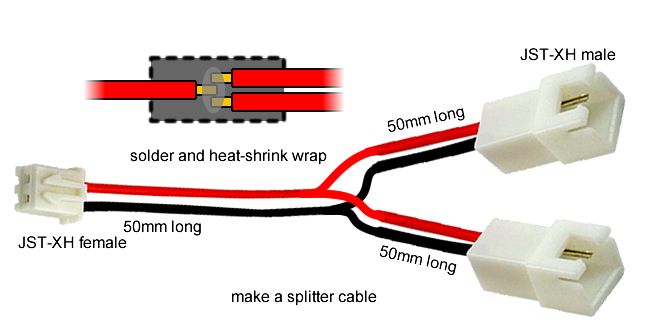
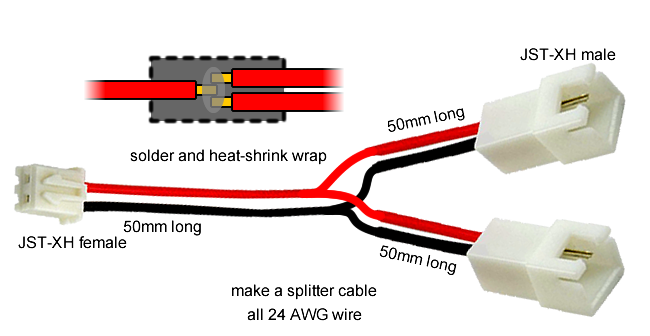
progress on assembly instructions

Changed region(s): [[0.3385, 0.8333, 0.5846, 0.9524]]

diff --git a/ordered_lessons/lesson11b.md b/ordered_lessons/lesson11b.md
@@ -1,0 +1,157 @@
+# Electronics Assembly Part 2
+
+At this point, everything should be ready to be connected together. We have made extension cables where we need to.
+
+It'll be great if you had a multimeter right now to do some tests. If everything goes right, then you won't need it. If something goes wrong, we can use it to identify bad connections or bad parts. An infrared thermometer would be helpfun, or even a thermal imaging camera.
+
+![](../images/lesson11/multimeter.png)
+
+We will do this step by step and test after each step. This will prevent any power issues from blowing up any sensitive components. Keep a fire extinguisher near by. Do not leave the area if the power is on or if something is hot. Do not touch any wires or connectors if the AC power cord is plugged in. Never use your feelings to check temperature.
+
+## Skill: Continuity Checking Wires
+
+You can easily check if a wire is broken with the multimeter's continuity check function. Also, you can also verify the wiring of a heating element before plugging it in, by measuring its resistance value at the end of the wires. Review [lesson 9](lesson9) to see what resistances you should be getting.
+
+## Skill: Swapping Wires in a JST-XH Connector
+
+When you have a JST-XH connector that has wires in the wrong order, there's a way to re-arrange that order. You need a pointy tool to pop out the crimp inside the connector housing. Once the crimp is removed, simply re-insert it into the housing at the correct position.
+
+![](../images/lesson11/howtoswapjstxhpins.png)
+
+This works on all of our JST-XH female connectors, which includes the stepper motor connectors.
+
+## 1: Power Supply
+
+Connect the AC power input to the 12VDC power supply. That means connecting the "**L**ive" (aka **H**ot), "**N**eutral", and "**G**round" wires.
+
+You also need to connect the negative output of the power supply to the ground somehow. This could be a simple 14 AWG wire. Recall what we [discussed before about grounding](lesson8).
+
+Once the connections are made, keep the area clear, plugin AC power and turn it on. There should be a small LED that lights up on the power supply.
+
+If you can, measure the DC output, it should be about 12V.
+
+Keep it running for 10 minutes. No smoke should come out, nothing should be warmer than 45 degrees C. For all the other tests, also make sure nothing smokes and nothing gets too warm.
+
+Turn the power off and unplug the AC power cord.
+
+## 2: Power Supply to Control Circuit
+
+The control circuit (SKR Mini E3) should be mounted inside its 3D printed box, secured with M3 standoffs and short M3 screws. The lid should be removed. We do not need the cooling fan yet.
+
+The LCD screen should also be mounted inside its own 3D printed box, secured with M3 standoffs and short M3 screws. Connect the LCD screen to the control circuit with the cable that came with it.
+
+Connect the power supply to the control circuit using the 14 AWG wires we prepared before.
+
+Turn the power on, LEDs will start coming on and the LCD will start to show stuff (or at least light up as well). This is good. There's a chance that nothing on the LCD actually does anything when you press it though, don't worry, we'll configure the firmware later.
+
+Plug in a USB cable between the control circuit and your computer. Install all the drivers you need (check manufacturer's website). Download and install [Pronterface](https://www.pronterface.com/), run it and see if you can connect to your control circuit.
+
+Turn the power off and unplug the AC power cord. Unplug the USB cable.
+
+NOTE: The default firmware for the SKR Mini E3 should have been written for a Creality Ender 3 printer. We are using very similar components so things should work out-of-the-box. But we do need to reconfigure things later.
+
+## 3: Sensors and Switches
+
+Input devices, like sensors, are low power, so we test them first. Plus, we depend on the temperature sensors to keep us safe when we test higher powered devices like the heaters.
+
+Connect all the sensors and switches to the control circuit. You've already made all the extension wires for them.
+
+Connect the USB cable, and power on the AC power. Connect to the control circuit from your computer using Pronterface.
+
+You should see that the temperature sensors report values, both the nozzle temperature and bed temperature. Now, use your hot air gun, heat those sensors up and watch your computer screen. Does the values start to increase? If so, then good, test passed. Do this for both the nozzle and the bed. Also when you turn off the hot air, see if the values start to decrease.
+
+The values might be reading room temperature but if they are not, then that could just mean we need to tweak the firmware.
+
+Inside the Pronterface console, type in the following command, then hit send (ENTER key)
+
+ * M119
+
+This is the [gcode command for "Endstop States"](https://marlinfw.org/docs/gcode/M119.html), and it will report when the limit switches are activated. Start pressing those switches, and while the switches are closed, issue the command again. See if the console shows the proper response.
+
+If you are seeing weird behaviour, then disconnect the wires and use tweezers to short circuit the respective connector on the circuit board. Shorting the limit switch connector will make the firmware think the switch is pressed. Shorting the temperature sensor pins should make the firmware think the temperature is very high.
+
+When you are done, turn everything off and unplug everything.
+
+## 4: Fans
+
+Connect the fans, again, we've already made the extension wires and splitter wires we need. But we need to watch out for which fan is connected to which connector. Follow the diagram.
+
+Next we need to check the polarity of the blower fan. The circuit board with have plus (+) and minus (-) symbols, plus means positive and minus means negative. Red wire should go to positive, and black wire should go to negative. If the JST-XH wires do not match the connector polarity, then we need to swap the red and black wires inside the JST-XH connector housing.
+
+Power everything up and connect via Pronterface. As soon as power is applied, the extruder cooling fan and the circuit box cooling fan should both start spinning. This is good. If they don't turn on, the wiring has a problem or the fans are broken.
+
+Issue the following command:
+
+ * M106 S255
+
+Did the blower fan turn on? If so, then we will turn it on at half speed, issue the following command:
+
+ * M106 S128
+
+Did the blower fan slow down? Now turn it off with the following command:
+
+ * M107
+
+Did the blower fan turn off?
+
+If you are troubleshooting a problem with a multimeter, check that the fan output pins on the circuit board are outputting about 12V when you tell the fan to turn on, and outputting 0V when you tell the fan to turn off.
+
+When you are done, turn everything off and unplug everything.
+
+## 5: Stepper Motors
+
+With everything powered off, AC power unplugged, use your hands to move the print head to the middle of the bed, and move the bed vertically to the middle height of the printer. In this position, it is safe to spin the stepper motors slightly just to check if they work.
+
+With the positions set, now plug in the stepper motors into the control circuit. Double check the colours of the wires. **Do not ever connect or disconnect stepper motors while the machine is powered on!**
+
+Power everything up and connect via Pronterface. Use the movement interface to move the print head and the bed, do so with only 10mm increments and a slow speed.
+
+ * Z minus means the bed moves up, Z plus means the bed moves down
+ * X minus means the print head moves left, X plus means the print head moves right
+ * Y minus means the print head moves towards you, Y plus means the print head moves away from you
+
+Do all the motors respond? They don't have to move in the right direction, they just have to move to prove our wiring is correct. We can flip the direction later when we configure the firmware. But remember which ones need to be flipped.
+
+If a motor is not moving, or only twitching, making a noise, then we need to check the wiring. Power off the printer and unplug the power cord. Unplug the offending stepper motor cable from the control circuit. Check the resistance between red and blue wires, then check the resistance between the black and green wires. The resistance should be close to the coil resistance specified in the stepper motor's datasheet. If the resistance is too high or infinity, then the wire has a bad connection somewhere. If the resistance is too low, like, zero, then there may be a short circuit somewhere.
+
+If both of these checks pass, then you may simply need to swap some wires around. Rearrange the crimps inside the JST-XH connector to swap the red wire with the blue wire.
+
+Reapply the power and try again. Assuming your connections are good. When you are done, turn everything off and unplug everything.
+
+## 6: Nozzle Heater
+
+Before this step, you must properly re-compile the firmware and flash the firmware to the control circuit. See the [page about the firmware (click here)](). We need the temperature sensor to keep everything safe while we test the nozzle heater, so the temperature sensor must be properly configured before we start.
+
+## 6: Bed Heater
+
+Before this step, you must properly re-compile the firmware and flash the firmware to the control circuit. See the [page about the firmware (click here)](). We need the temperature sensor to keep everything safe while we test the bed heater, so the temperature sensor must be properly configured before we start.
+
+## 7: Electrical Stress Test
+
+First, remove the box cooling fan from the circuit box. Don't disconnect it, just remove it.
+
+Get your test gear ready, and have a fire extinguisher near by.
+
+Then, power everything up and connect to the printer via Pronterface.
+
+Command the bed to heat up to 80 degrees C, and command the nozzle to heat up to 250 degrees C.
+
+Leave the printer running like this for an hour or two. Check the temperatures of all the connectors and wires, nothing should reach dangerous temperatures during this time. You can check once every 15 minutes, read a book, but sit beside the printer.
+
+If something on the circuit board gets warmer than 60 degrees C, then install the cooling fan back into the box and continue the test.
+
+Turn off the power and unplug the power cable when you are done.
+
+## Finishing Up
+
+Close up the circuit board box with the lid. Mount everything to the frame if you haven't already. Use zip-ties to secure all wires to the frame somehow, take advantage of the T-slots.
+
+Congratulations! You've just built a 3D printer!
+
+The next steps are to:
+
+ * configure the firmware
+ * tune the temperature controlling PID loop
+ * setup and configure the slicer software
+ * print stuff
+

diff --git a/ordered_lessons/lesson10b.md b/ordered_lessons/lesson10b.md
@@ -13,6 +13,8 @@ Attach the blower fan onto the 3D printed part that mounts to the Hemera extrude
 
 Attach the 3D printed mounts to the Hemera extruder, using the 6mm long M3 screws.
 
+![](../images/lesson10/hemeramount.png)
+
 If the screws are too long, then use some washers under them.
 
 This is now the print head. Install this whole print head onto the gantry's cross linear rods. Slide the linear rods through the clamps first, then slide the linear ball bearings into the clamps.
@@ -31,21 +33,17 @@ Move the bed up to the nozzle by hand. Move the nozzle to the left front of the 
 
 Now you can use the shaft collar on the side linear rods to set that point as the limit by butting up the collar against the sliding block. Tighten that set-screw.
 
+Mount the limit switches in the correct position such that the switch will not be destroyed when the sliding block reaches the shaft collar. Use the 20mm long M3 screws to fasten it to the 3D printed gantry bearing mount. The screws should enter through the limit switch, and on the other side, use a washer (**required**) and nylon locking nut to fasten.
+
+![](../images/lesson10/setlimits1.png)
+
 Also do the same for the far right corner of the print bed. But this time, allow the nozzle to go past the edge of the glass by a few millimeters. This is because we want the shaft collars to act as a safety limit but the firmware will enforce the geometric limit.
+
+![](../images/lesson10/setlimits2.png)
 
 As a reminder, do not touch the shaft collars indicated in the next diagram, leave them tightened in place.
 
-Mount the limit switches in the correct position such that the switch will not be destroyed when the sliding block reaches the shaft collar. Use the 20mm long M3 screws to fasten it to the 3D printed gantry bearing mount. The screws should enter through the limit switch, and on the other side, use a washer (**required**) and nylon locking nut to fasten.
-
-## Print Bed
-
-If the heated bed does not have countersunk holes, now is the time to use a drill and a countersink drill bit to make the holes countersunk. Make sure the M3 countersink head screws will sit in the hole with the head flush with the surface. (my research indicates that the heated bed on the shopping list does have the holes already countersunk)
-
-Now is the time to do the wiring for the heated bed, which is covered in [another page (click here)]().
-
-Using the countersink M3 screws, a nylon locking nut, the bed springs, and the knob, fasten the bed heater plate to the bed forklift. Tighten the knobs until the springs are fully compressed first, then release each spring about 2mm.
-
-Secure the wires to the 3D printed wire guide on the back of the forklift using zip-ties. This will allow us to work with the wires without worrying about breaking the solder joints.
+![](../images/lesson10/leavethesecollarslocked.png)
 
 ## Drag Chain
 
@@ -71,3 +69,40 @@ Closer up, pay attention to the shape of the end pieces, and pay attention to wh
 
 Your job is to take the drag chain you've purchased and arrange it in this shape. I did some calculations and for this chain, you need 31 ordinary links in total, plus the 2 end links.
 
+Do not mount the drag chain yet, you need to put wires through it first, then attach the bed heater to the forklift, only *then* you attach the drag chain to the frame.
+
+## Print Bed
+
+~~If the heated bed does not have countersunk holes, now is the time to use a drill and a countersink drill bit to make the holes countersunk. Make sure the M3 countersink head screws will sit in the hole with the head flush with the surface.~~ (my research indicates that the heated bed on the shopping list does have the holes already countersunk)
+
+Now is the time to do the wiring for the heated bed, which is covered in [another page (click here)]().
+
+Using the countersink M3 screws, a nylon locking nut, the bed springs, and the knob, fasten the bed heater plate to the bed forklift. Tighten the knobs until the springs are fully compressed first, then release each spring about 2mm.
+
+![](../images/lesson6/bedassemblyoverviewlow.png)
+
+Secure the wires to the 3D printed wire guide on the back of the forklift using zip-ties. This will allow us to work with the wires without worrying about breaking the solder joints.
+
+![](../images/lesson10/bedrearwireguide.png)
+
+## Drag Chain Again
+
+Now you screw the drag chain to the 3D printed drag chain anchors, and then you screw the drag chain anchors to the frame of the 3D printer.
+
+![](../images/lesson6/dragchainanchors.png)
+
+## Upper Wire Guide Tube
+
+Install the teflon tube that keeps the wires from sagging on top of the printer. The tube should be cut to about 1000mm long.
+
+Screw on the 3D printed wire guidance part to the printer's frame using M5 x 8mm flanged screws and T-slot nuts, then use zip-ties to attach the teflon tube.
+
+The other end of the tube should be zip-tied to the back of the Hemera extruder, where there are holes on the 3D printed part. If you've install electronics to the Hemera extruder and hot-end already, then now is a good time to zip-tie their wires to the teflon tube.
+
+![](../images/lesson10/uppercornercableguideziptie.png)
+
+## The Rest
+
+Everything else should be attached using M5 8mm long flanged screws and M5 T-slot nuts. Have fun!
+
+You may want to complete all the electrical wiring before fastening the electronics.

diff --git a/ordered_lessons/lesson11a.md b/ordered_lessons/lesson11a.md
@@ -57,6 +57,8 @@ Keep in mind that the limit switches, thermistors, and heating elements, **do no
 
 For the cooling fans, especially the type we are using called BLDC (brushless DC), the polarity definitely matters, and reversing the polarity with a 12V power input will definitely cause damage to them. So make sure red goes to red (red = positive, positive goes to positive), and black goes to black.
 
+Why are the fork connectors and wire ferrules both blue? Blue is the colour code for 14 AWG wire. The colours for these items most frequently indicate size, but double check that the wire is a good fit. Ferrules for 24 AWG are sometimes green, sometimes yellow, so check the fit yourself. The crimper for a blue fork connector will have a blue dot where the connector goes.
+
 ## Limit Switches
 
 There are three limit switches in our design, one for each axis of motion: X, Y, and Z.
@@ -113,13 +115,37 @@ Be very careful not to break the solder joints while installing the heated bed t
 
 ![](../images/lesson6/bedcableanchoroverview.png)
 
+## Stepper Motors
+
+The stepper motor we've purchased for the Z axis leadscrew should have a 1 meter long cable already, it should be enough.
+
+The X and Y axis stepper motors may need the wires extended. It may have a connector or it may have wires sticking out. Either way, you need to extend these with the stepper motor wires that you've purchased. Just make sure the colours of the wires match up, use soldering and heat-shrink tubing to make the splices.
+
+![](../images/lesson11/steppermotorextendcable.png)
+
+Make sure it ends with a JST-XH connector, so we can plug it into the control circuit later. The order of the colours might be wrong, but that's ok, we can swap the order later.
+
 ## Extension Cables
 
-The big major cable is the 12V wire that runs from the power supply to the control circuit board. This uses 14 AWG wire, and is terminated with spade connectors on one end, and wire ferrules on the other end.
+The big major cable is the 12V wire that runs from the power supply to the control circuit board. This uses 14 AWG wire, 800mm long, and is terminated with spade connectors on one end, and wire ferrules on the other end.
+
+![](../images/lesson11/mainpwrextensioncable.png)
 
 Extending wires from the limit switches to the control circuit board is easy, just a long pieces of 24 AWG wire with JST-XH female connectors on each end. We need three of them, each one is a different length.
 
-Extending wires from the extruder cooling fan and the nozzle blower fan requires two differently made extension wires. Use 24 AWG wire. Both will have JST-XH female on the end where it connects to the control circuit. The one meant for the extruder cooling fan will have a JST-XH **female** on the last end, but the one meant for the nozzle blower fan will have a JST-XH **male** on the last end.
+![](../images/lesson11/limitswitchextensionwire.png)
+
+Extending wires from the extruder cooling fan and the nozzle blower fan requires two differently made extension wires, they are both really long. Use 24 AWG wire. Follow the diagrams below.
+
+![](../images/lesson11/blowerfanextensionwire.png)
+
+![](../images/lesson11/extruderfanextensionwirejst.png)
+
+Both will have JST-XH female on the end where it connects to the control circuit. The one meant for the extruder cooling fan will have a JST-XH **female** on the last end, but the one meant for the nozzle blower fan will have a JST-XH **male** on the last end. This way, when route the wire up to the extruder, you won't be confused as to which one is which.
+
+You need to make a splitter as well, it will allow us to connect the extruder cooling fan and the circuit box cooling fan directly into 12V. This is a safety feature, as it prevents a firmware or MOSFET failure from killing the fans. Follow the diagram below.
+
+![](../images/lesson11/fansplitterferrule.png)
 
 ## AC Power Input
 

diff --git a/index.md b/index.md
@@ -71,11 +71,10 @@ Table of Contents
  * [Lesson 7](ordered_lessons/lesson7.md): Part CAD Design Walkthrough (more homework)
  * [Lesson 8](ordered_lessons/lesson8.md): 3D Printer Electronics
  * [Lesson 9](ordered_lessons/lesson9.md): Assembly Preparation
- * Lesson 10a: Mechanical Assembly Part 1
- * Lesson 10b: Mechanical Assembly Part 2
- * Lesson 10c: Mechanical Assembly Part 3
- * Lesson 10d: Mechanical Assembly Part 4
- * Lesson 11: Electrical Assembly
+ * [Lesson 11a](ordered_lessons/lesson11a.md): Electrical Assembly Part 1
+ * [Lesson 10a](ordered_lessons/lesson10a.md): Mechanical Assembly Part 1
+ * [Lesson 10b](ordered_lessons/lesson10b.md): Mechanical Assembly Part 2
+ * [Lesson 11b](ordered_lessons/lesson11b.md): Electrical Assembly Part 2
  * Lesson 12: Firmware Setup
  * Lesson 13: Software Setup
  * [Optional 3D Printed Parts](other_pages/optional3dprintedparts.md)

diff --git a/ordered_lessons/lesson8.md b/ordered_lessons/lesson8.md
@@ -107,6 +107,10 @@ Grounding also prevents build-up of static electricity, because the static charg
 
 You also want to ground the negative terminal of the DC output. This is because the conversion from AC to DC can still have a small bit of AC leaking into the DC side. It's most often not dangerous but you can still feel a small shock if you touched something with even a few millivolts of AC.
 
+Ground is usually indicated by one of the following symbols:
+
+![](../images/lesson8/groundsymbols.png)
+
 [Wikipedia: Grounding](https://en.wikipedia.org/wiki/Ground_(electricity))
 
 Since the 3D printer uses an aluminum frame, grounding everything is simpler, because we can use the frame as the ground conductor. There may be parts that are not connected to ground and should be, we'll check for that once the printer is built.
